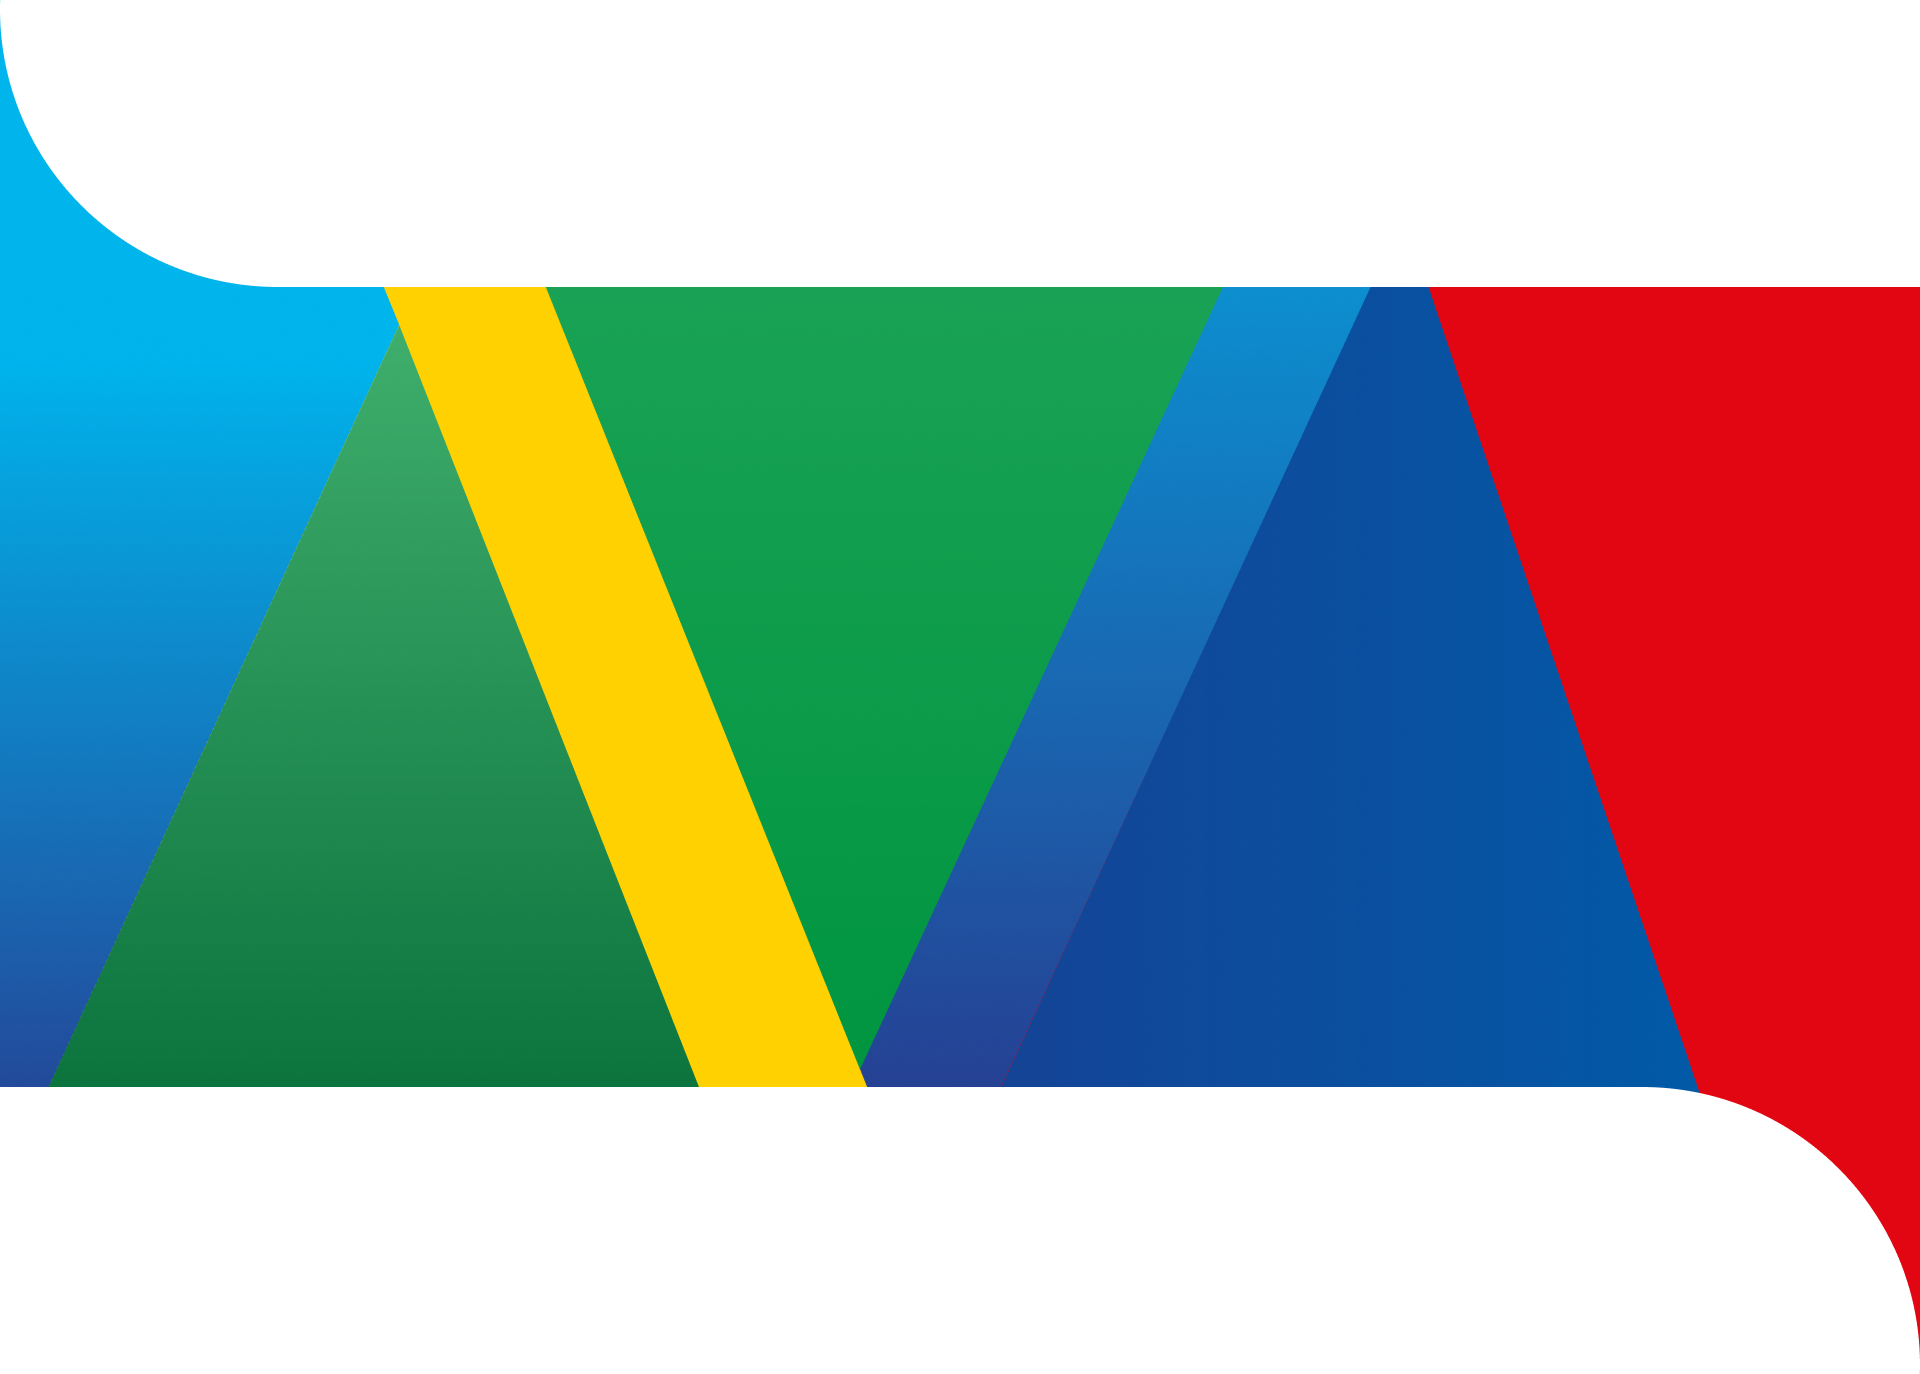
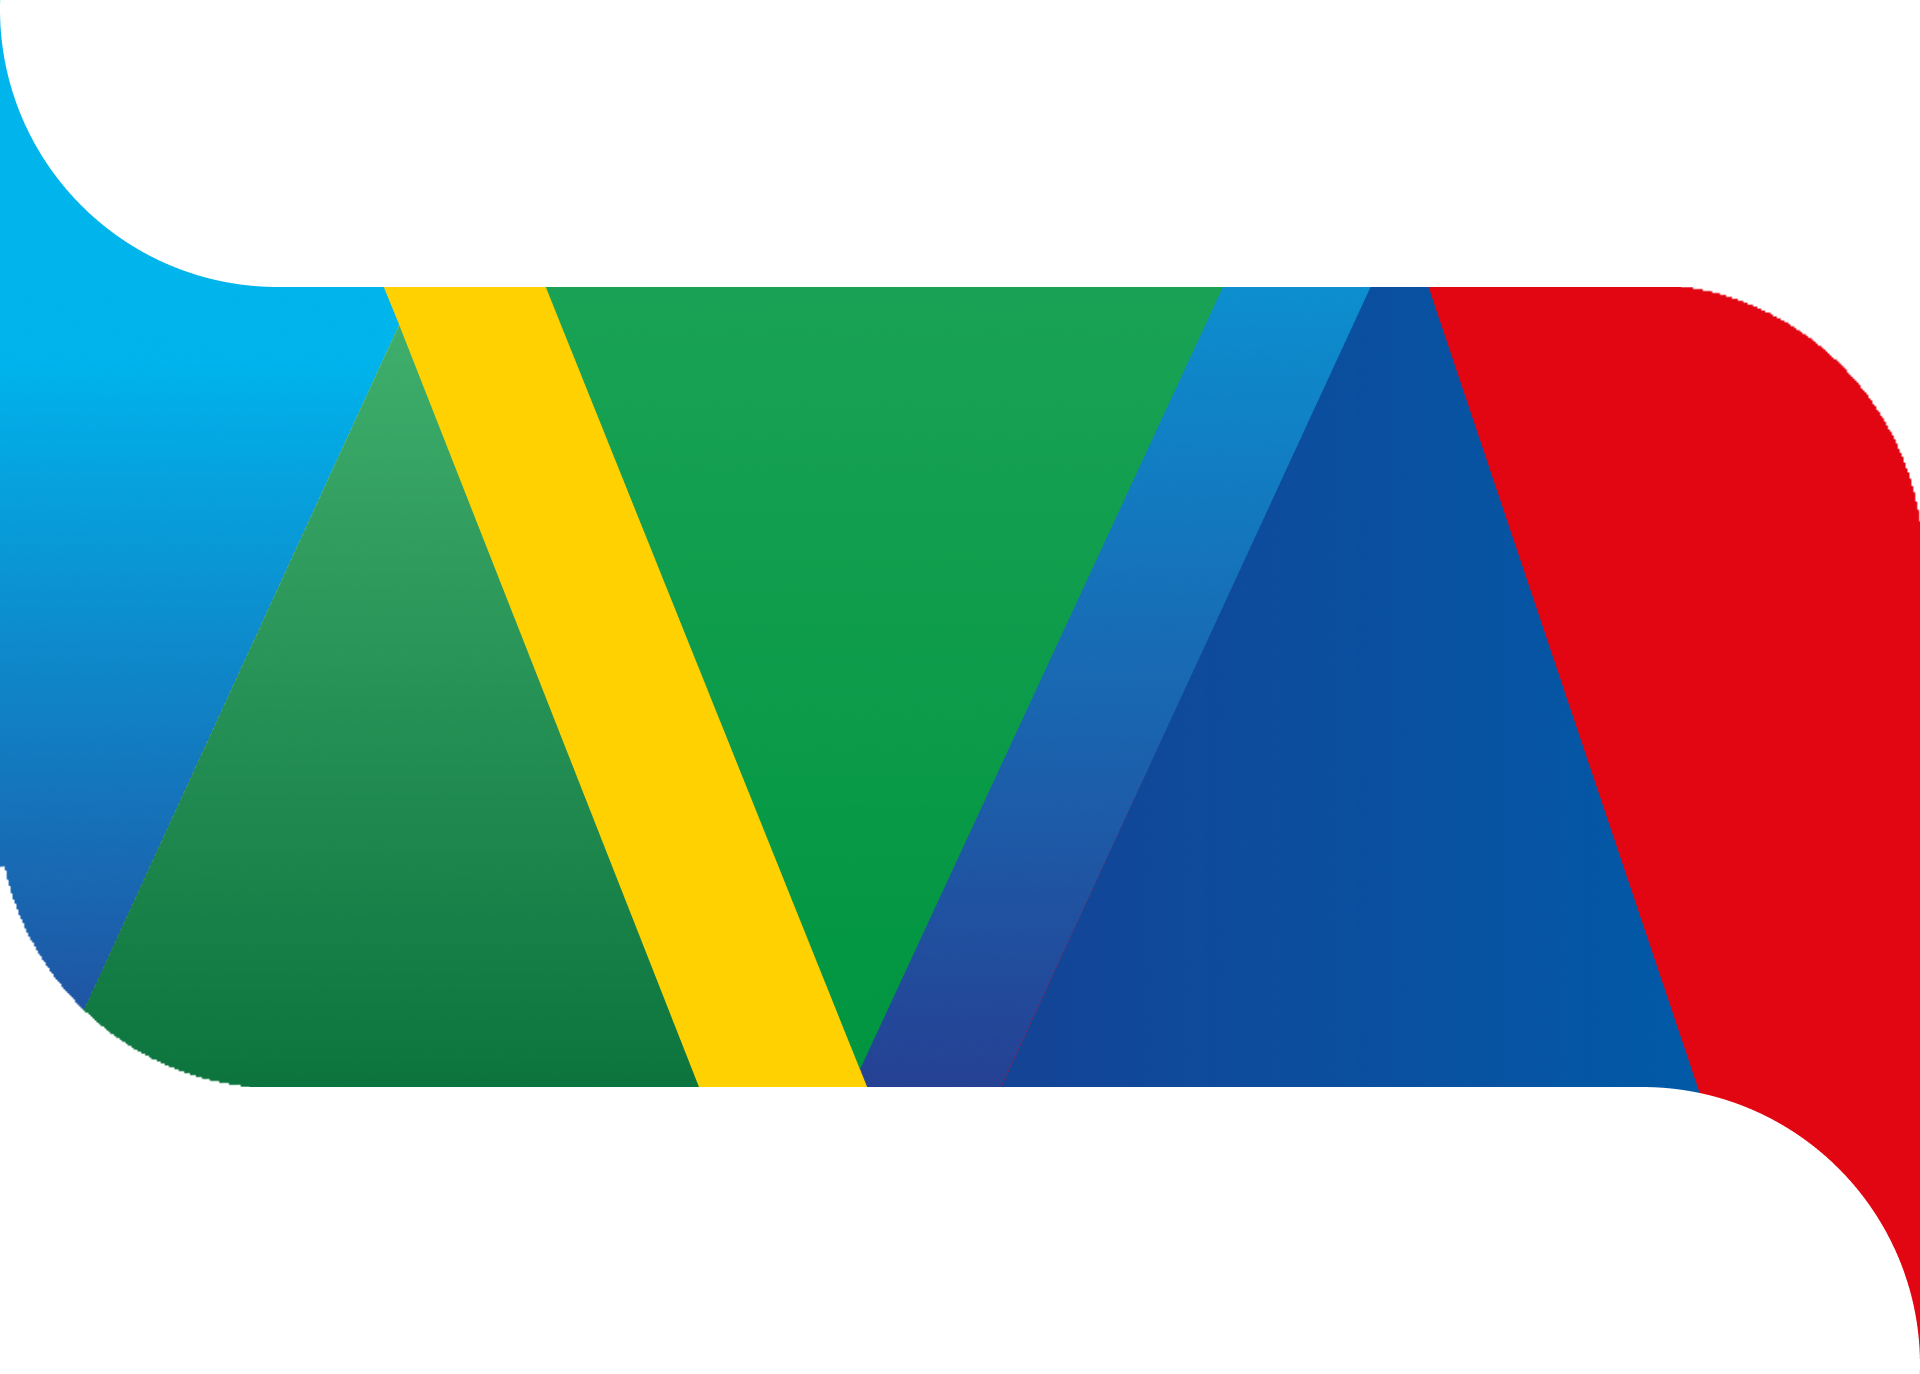
image

Changed region(s): [[0.875, 0.1834, 1.0, 0.3668], [0.0, 0.6419, 0.125, 0.7948]]

diff --git a/src/index.css b/src/index.css
@@ -19,11 +19,6 @@ body {
   padding: 0;
 }
 
- .coming {
-   background-color: #171B29;
-   border-radius: 25px;
-   content: "";
- }
 
 .preSaleBgImage{
   background-image: url(/static/img/cardBg.png);
@@ -36,7 +31,7 @@ body {
     background: url(/static/img/mobileCardsBg.svg);
     background-position: center;
     background-repeat: no-repeat;
-    background-size: cover;
+    background-size: contain;
     background-attachment: scroll;
   }
 
